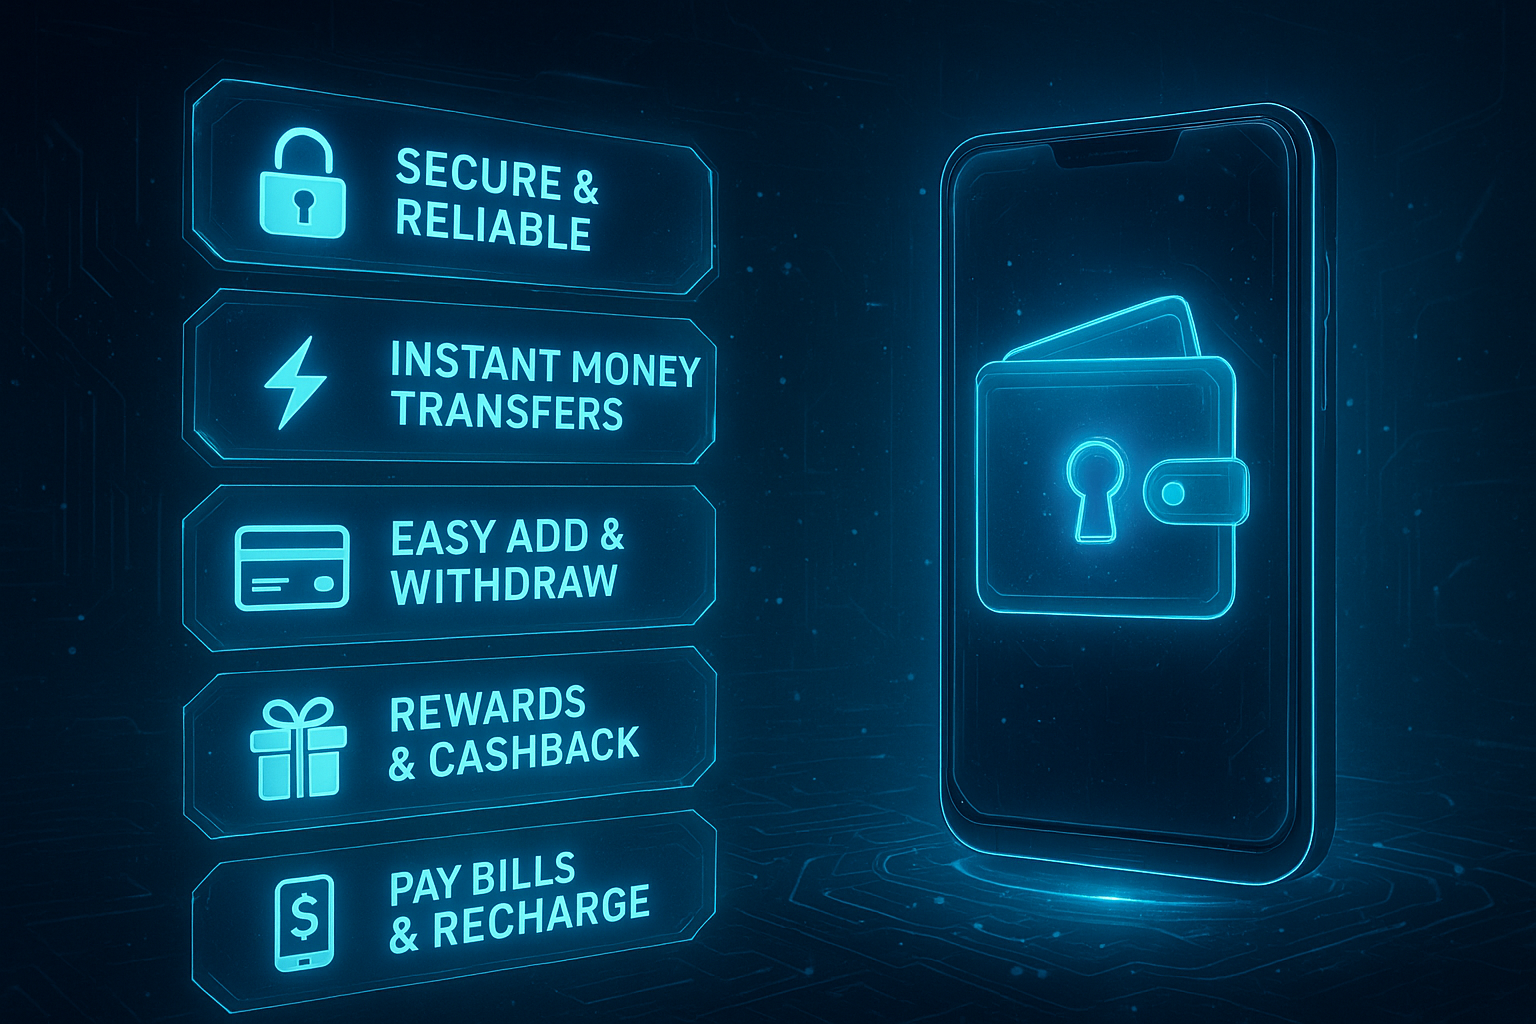
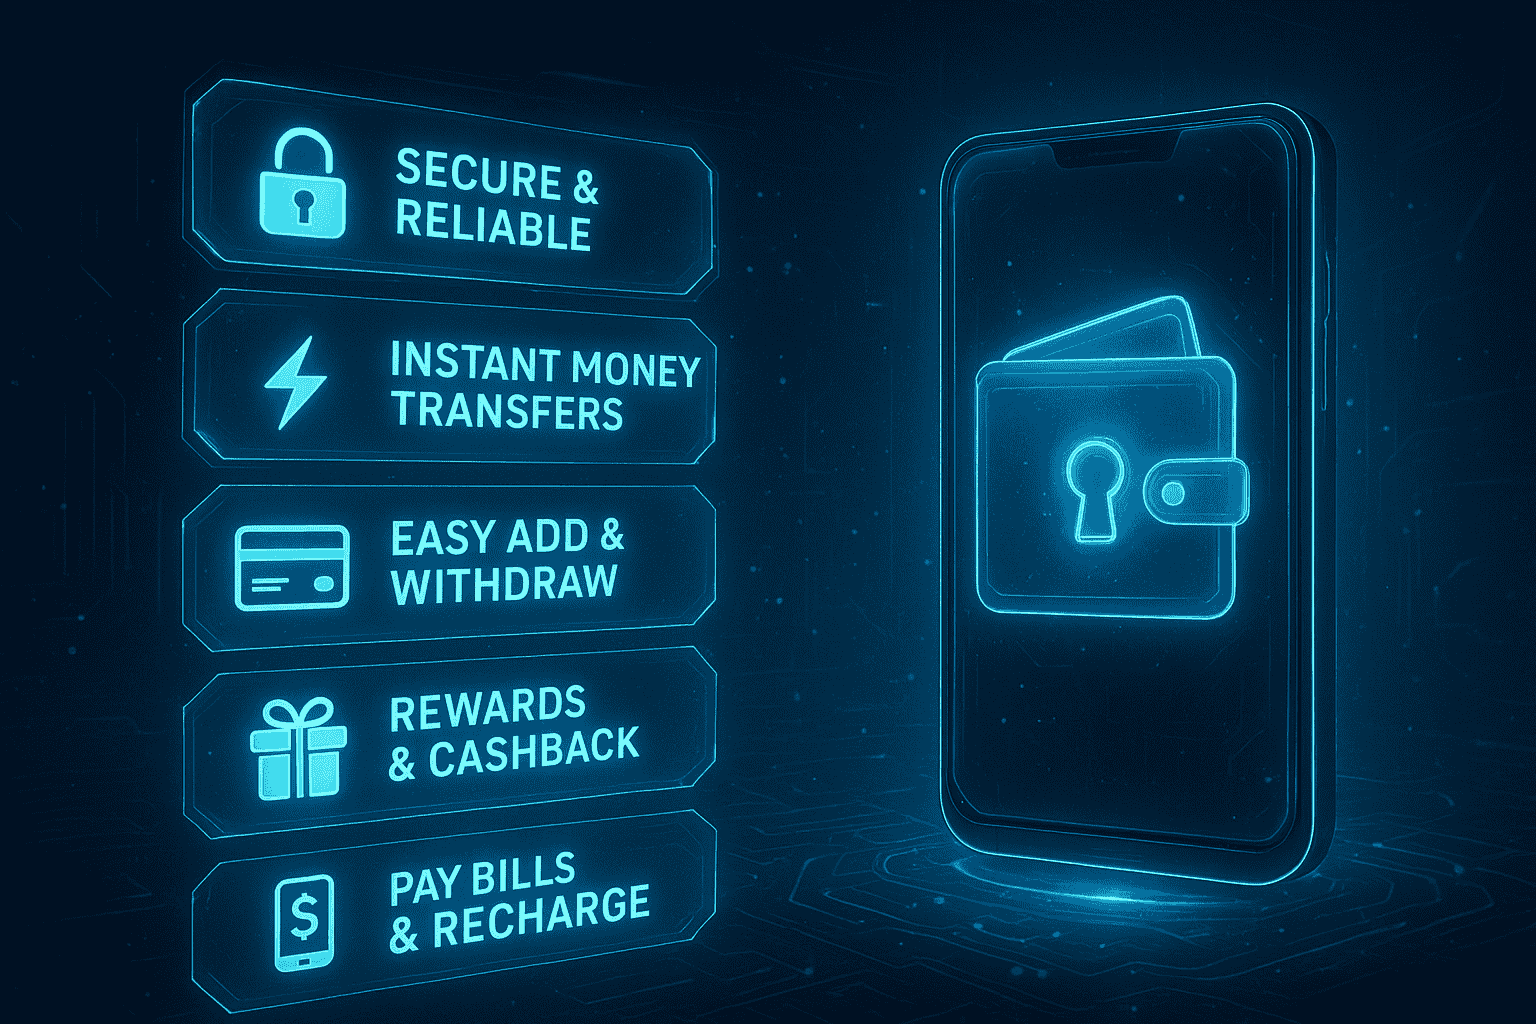
img optimization done

diff --git a/src/components/ui/shape-landing-hero.tsx b/src/components/ui/shape-landing-hero.tsx
@@ -1,10 +1,7 @@
-import { motion } from "framer-motion";
+import { motion, type Variants } from "framer-motion";
 import { cn } from "@/lib/utils";
 import { Button } from "./button";
-import { useUserInfoQuery } from "@/redux/features/user/user.api";
-import { Link } from "react-router";
-import { getDashboardLink } from "@/utils/getDashboardLink";
-import type { TRole } from "@/types";
+
 function ElegantShape({
   className,
   delay = 0,
@@ -80,23 +77,18 @@ function HeroGeometric({
   title1?: string;
   title2?: string;
 }) {
-  const { data: userData, isLoading } = useUserInfoQuery(undefined);
-
-    const user = userData?.data;
-  const { role} = user || {};
-  const fadeUpVariants = {
-    hidden: { opacity: 0, y: 30 },
-    visible: (i: number) => ({
-      opacity: 1,
-      y: 0,
-      transition: {
-        duration: 1,
-        delay: 0.5 + i * 0.2,
-        ease: [0.25, 0.4, 0.25, 1],
-      },
-    }),
-  };
-
+const fadeUpVariants: Variants = {
+  hidden: { opacity: 0, y: 30 },
+  visible: (i: number) => ({
+    opacity: 1,
+    y: 0,
+    transition: {
+      duration: 0.6,
+      delay: i * 0.2, // Stagger based on index
+      ease: [0.42, 0, 0.58, 1] as [number, number, number, number] // ✅ Proper cubic bezier type
+    }
+  })
+};
   return (
     <div className="relative min-h-screen w-full flex items-center justify-center overflow-hidden bg-[#021131] ">
       <div className="absolute inset-0 bg-gradient-to-br from-indigo-500/[0.05] via-transparent to-rose-500/[0.05] blur-3xl" />
@@ -190,9 +182,7 @@ function HeroGeometric({
             animate="visible"
             className="items-center gap-2 px-3 py-1 rounded-full  border-white/[0.08] mb-8 md:mb-12"
           >
-           <Link to={getDashboardLink(role as TRole)}>
             <Button className="text-foreground cursor-pointer">{badge}</Button>
-           </Link>
           </motion.div>
         </div>
       </div>

diff --git a/src/pages/Agent/WithdrawFromUser.tsx b/src/pages/Agent/WithdrawFromUser.tsx
@@ -5,7 +5,7 @@ import type { IErrorResponse } from "@/types";
 import { toast } from "sonner";
 
 export default function WithdrawFromUser() {
-  const [withdrawMoneyFromUser] = useWithdrawMoneyFromUserMutation();
+  const [withdrawMoneyFromUser,{isLoading}] = useWithdrawMoneyFromUserMutation();
 
   const handleWithdrawMoneyFromUser = async (values: {
     dataField: string;
@@ -36,6 +36,7 @@ export default function WithdrawFromUser() {
       <WalletTransactionCard
         cardTitle="Withdraw Money"
         inputFieldTitle="Receiver Email Address"
+        isSubmitting={isLoading}
         handleInputAmount={handleWithdrawMoneyFromUser}
       />
     </>

diff --git a/src/components/ui/sidebar.tsx b/src/components/ui/sidebar.tsx
@@ -1,5 +1,3 @@
-"use client";
-
 import * as React from "react";
 import { Slot } from "@radix-ui/react-slot";
 import { cva, type VariantProps } from "class-variance-authority";
@@ -24,11 +22,11 @@ import {
   TooltipProvider,
   TooltipTrigger,
 } from "@/components/ui/tooltip";
-import { useSidebar } from "@/hooks/useSidebar";
 import {
   SidebarContext,
   type SidebarContextProps,
 } from "@/context/SidebarContext";
+import { useSidebar } from "@/hooks/useSidebar";
 
 const SIDEBAR_COOKIE_NAME = "sidebar_state";
 const SIDEBAR_COOKIE_MAX_AGE = 60 * 60 * 24 * 7;

diff --git a/src/components/ui/radial-orbital-timeline.tsx b/src/components/ui/radial-orbital-timeline.tsx
@@ -175,7 +175,7 @@ export default function RadialOrbitalTimeline({
             return (
               <div
                 key={item.id}
-                ref={(el) => (nodeRefs.current[item.id] = el)}
+                ref={(el) => { nodeRefs.current[item.id] = el; }}
                 className="absolute transition-all duration-700 cursor-pointer"
                 style={nodeStyle}
                 onClick={(e) => {

diff --git a/src/pages/Admin/AdminTransactionsView.tsx b/src/pages/Admin/AdminTransactionsView.tsx
@@ -71,13 +71,13 @@ export default function AdminTransactionView() {
 
   return (
     <DataTable<ITransaction>
-      title="Transactions History"
       columns={columns}
       data={transactions}
       isLoading={isLoading}
       filters={filters}
       currentPage={currentPage}
       totalPages={totalPages}
+      pagination={true}
       setCurrentPage={setCurrentPage}
     />
   );

diff --git a/src/components/ui/sonner.tsx b/src/components/ui/sonner.tsx
@@ -1,5 +1,5 @@
 import { useTheme } from "next-themes"
-import { Toaster as Sonner, ToasterProps } from "sonner"
+import { Toaster as Sonner, type ToasterProps } from "sonner"
 
 const Toaster = ({ ...props }: ToasterProps) => {
   const { theme = "system" } = useTheme()

diff --git a/src/components/nav-documents.tsx b/src/components/nav-documents.tsx
@@ -22,8 +22,8 @@ import {
   SidebarMenuAction,
   SidebarMenuButton,
   SidebarMenuItem,
-  useSidebar,
 } from "@/components/ui/sidebar"
+import { useSidebar } from "@/hooks/useSidebar"
 
 export function NavDocuments({
   items,

diff --git a/src/components/nav-user.tsx b/src/components/nav-user.tsx
@@ -24,8 +24,8 @@ import {
   SidebarMenu,
   SidebarMenuButton,
   SidebarMenuItem,
-  useSidebar,
 } from "@/components/ui/sidebar"
+import { useSidebar } from "@/hooks/useSidebar"
 
 export function NavUser({
   user,

diff --git a/src/components/data-table.tsx b/src/components/data-table.tsx
@@ -29,7 +29,6 @@ import {
   IconGripVertical,
   IconLayoutColumns,
   IconLoader,
-  IconPlus,
 } from "@tabler/icons-react";
 import {
   type ColumnDef,
